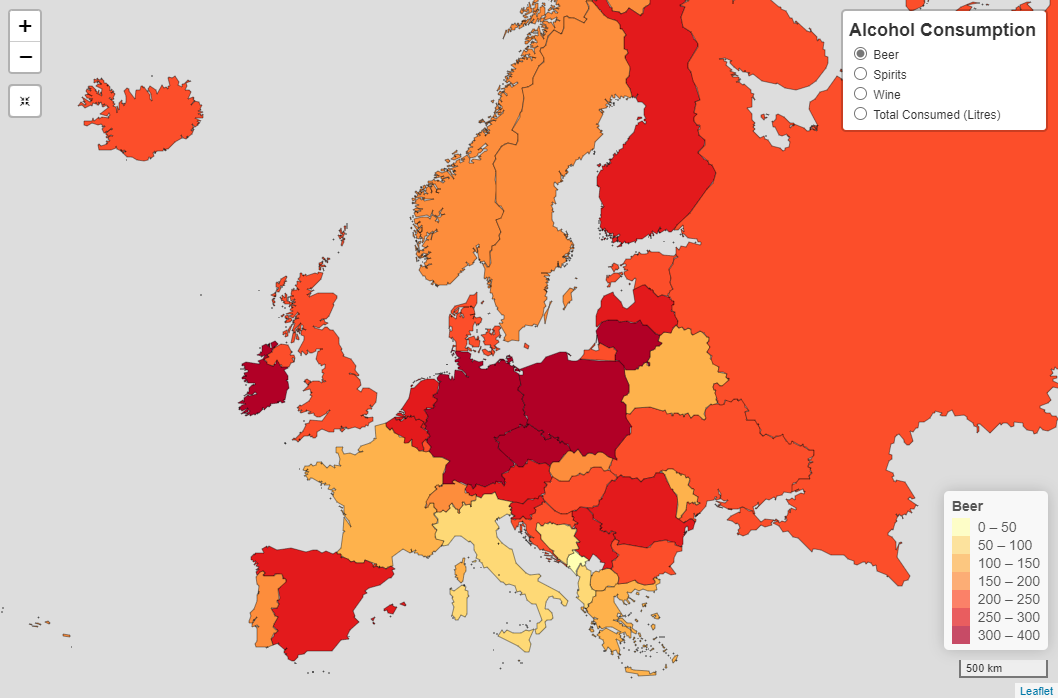
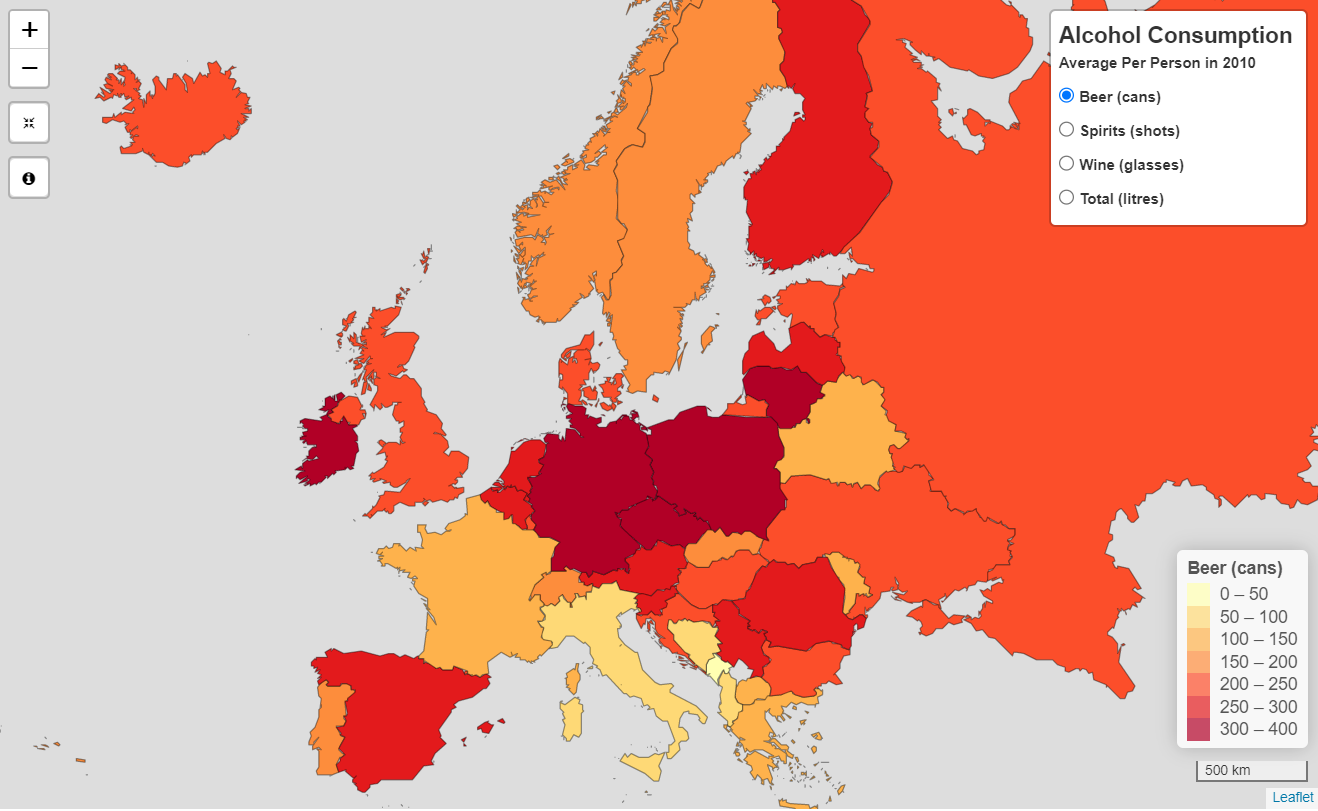
Update website

diff --git a/content/data-vis-projects/tidytuesday_20180626/index.md b/content/data-vis-projects/tidytuesday_20180626/index.md
@@ -126,6 +126,34 @@ tooltip_options = labelOptions(
   )
 )
 
+# Model information icon content
+info_content <- HTML(paste0(
+  HTML(
+    '<div class="modal fade" id="infobox" role="dialog"><div class="modal-dialog"><!-- Modal content--><div class="modal-content"><div class="modal-header"><button type="button" class="close" data-dismiss="modal">&times;</button>'
+  ),
+  
+  # Header / Title
+  HTML("<h3>Alcohol Consumption in Europe</h3>"),
+  HTML(
+    '</div><div class="modal-body">'
+  ),
+  
+  # Body
+  HTML(
+    '<h4><strong>Information</strong></h4>
+<p>This map presents how many cans of beer, shots of spirits and glasses of wine were consumed on average per person per country in 2010. 
+More information on how these servings were calculated is available via the links below. 
+The total amount pure alcohol consumed (in litres) is also presented per person per country in 2010.</p>
+<hr>
+<h4><strong>Links</strong></h4>
+<p>Data source: <a href="https://github.com/rudeboybert/fivethirtyeight">FiveThirtyEight package</a>
+<br>
+Article: <a href="https://fivethirtyeight.com/features/dear-mona-followup-where-do-people-drink-the-most-beer-wine-and-spirits/">FiveThirtyEight.com</a></p>'),
+  
+  # Closing divs
+  HTML('</div><div class="modal-footer"><button type="button" class="btn btn-default" data-dismiss="modal">Close</button></div></div>')
+))
+
 # Colour bins
 bins_servings = c(0, 50, 100, 150, 200, 250, 300, 400)
 bins_total = c(0, 3, 6, 9, 12, 15)
@@ -161,7 +189,9 @@ add_choropleth = function(map, var_id, var_pal, ...){
     "<b>%s</b><br/>%g %s",
     europe_sf$country,
     europe_sf[[var_colname]],
-    ifelse(var_colname == "total_litres_of_pure_alcohol", "Litres", "Servings")
+    ifelse(var_colname == "beer_servings", "cans",
+           ifelse(var_colname == "spirit_servings", "shots",
+                  ifelse(var_colname == "wine_servings", "glasses", "litres")))
   ) %>% lapply(htmltools::HTML)
   # Polygons
   addPolygons(
@@ -182,10 +212,10 @@ add_choropleth = function(map, var_id, var_pal, ...){
 }
 
 # Variable IDs
-beer_id = "Beer"
-spirit_id = "Spirits"
-wine_id = "Wine"
-total_id = "Total Consumed (Litres)"
+beer_id = "Beer (cans)"
+spirit_id = "Spirits (shots)"
+wine_id = "Wine (glasses)"
+total_id = "Total (litres)"
 
 # Plot map
 l1 = leaflet() %>%
@@ -215,13 +245,13 @@ l1 = leaflet() %>%
     ) %>% 
   # Base group title
   htmlwidgets::onRender(
-    jsCode = "function() { $('.leaflet-control-layers-base').prepend('<label style=\"text-align:left\"><strong><font size=\"4\">Alcohol Consumption</font></strong></label>');}"
+    jsCode = "function() { $('.leaflet-control-layers-base').prepend('<label style=\"text-align:left\"><strong><font size=\"4\">Alcohol Consumption</font></strong><br>Average Per Person in 2010</label>');}"
     ) %>% 
   # Switch legends when a different base group is selected
   # Code from here: https://gist.github.com/noamross/98c2053d81085517e686407096ec0a69
   htmlwidgets::onRender("
     function(el, x) {
-      var initialLegend = 'Beer' // Set the initial legend to be displayed by layerId
+      var initialLegend = 'Beer (cans)' // Set the initial legend to be displayed by layerId
       var myMap = this;
       for (var legend in myMap.controls._controlsById) {
         var el = myMap.controls.get(legend.toString())._container;
@@ -242,8 +272,16 @@ l1 = leaflet() %>%
           };
         };
       });
-    }")
-# l1
+    }") %>% 
+  # Add information icon (model onclick)
+  # Code from here: https://stackoverflow.com/questions/68995343/r-leaflet-adding-an-information-popup-using-easybutton
+  addBootstrapDependency() %>% 
+  addEasyButton(easyButton(
+    icon = "fa-info-circle", title = "Map Information",
+    onClick = JS("function(btn, map){ $('#infobox').modal('show'); }")
+  )) %>% 
+  htmlwidgets::appendContent(info_content)
+l1
 saveWidget(l1, file = "widgets/02_choropleth.html")
 ```
 <br/>
